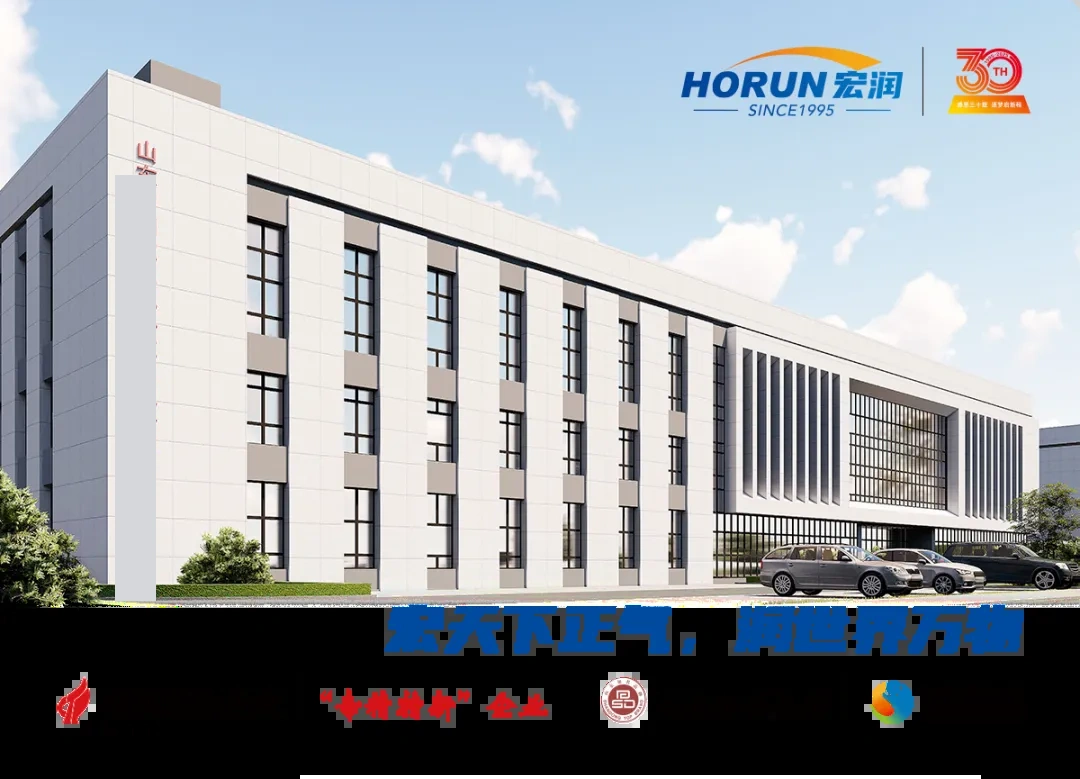
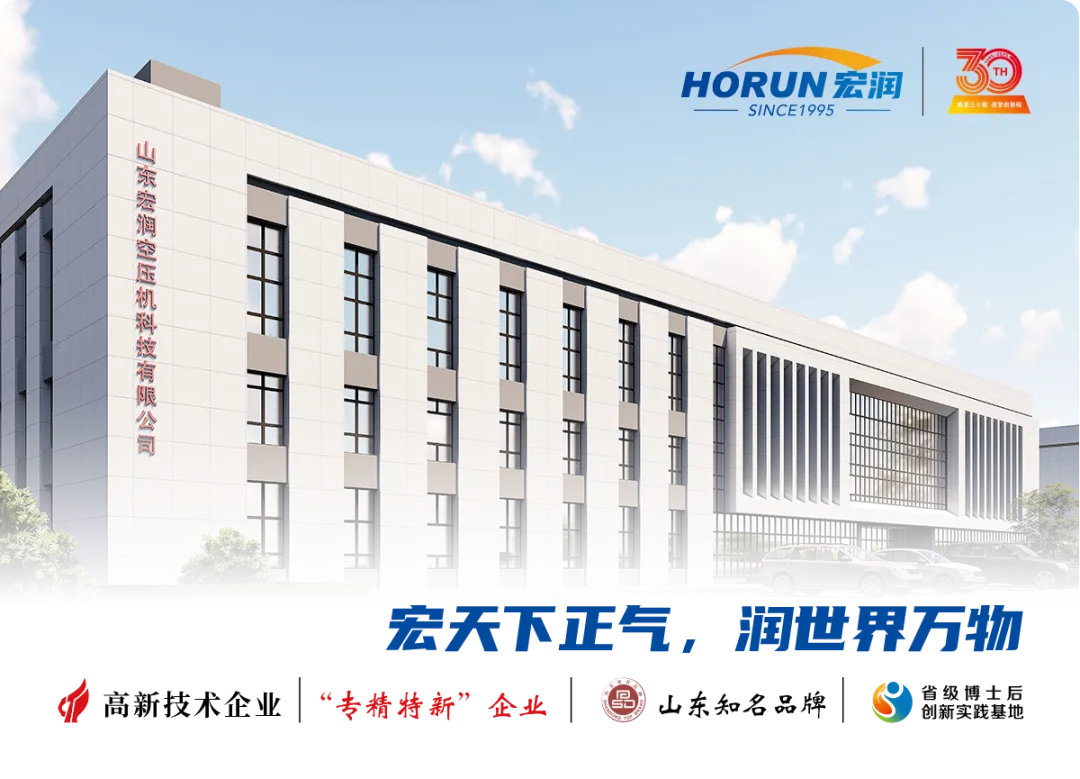
fix(media): replace edited factory milestone image with authentic Chinese original photo

diff --git a/articles/20261021-dentech-china-2026/index.html b/articles/20261021-dentech-china-2026/index.html
@@ -718,19 +718,14 @@
           <i class="fa-solid fa-industry text-brand-blue"></i>
           <span class="font-bold text-xs text-slate-800">Figure 4.0: Hongrun Technology Corporate Headquarters &amp; Advanced Manufacturing Facility</span>
         </div>
-        <!-- Toggle Switcher -->
-        <div class="inline-flex rounded-lg border border-slate-300 p-0.5 bg-slate-200 text-xs">
-          <button id="btn-hq-en" onclick="switchHqView('en')" class="img-toggle-btn active px-3 py-1 rounded-md text-xs font-semibold">
-            English Milestone View
-          </button>
-          <button id="btn-hq-zh" onclick="switchHqView('zh')" class="img-toggle-btn px-3 py-1 rounded-md text-xs text-slate-700 hover:text-slate-900">
-            中文原图
-          </button>
-        </div>
+        <!-- Authentic Milestone Photo Badge -->
+        <span class="inline-flex items-center gap-1.5 px-3 py-1 rounded-md text-xs font-semibold bg-brand-blue text-white shadow-sm">
+          <i class="fa-solid fa-building"></i> Headquarters &amp; Manufacturing Center
+        </span>
       </div>
       
       <div class="relative bg-slate-100 flex items-center justify-center p-2">
-        <img id="img-hq" src="factory_hq_en.webp" alt="Hongrun Technology Headquarters and 30-Year Medical Compressor Manufacturing Center" class="w-full h-auto object-cover rounded-xl max-h-[500px] transition-opacity duration-300"/>
+        <img id="img-hq" src="factory_hq_zh.webp" alt="Hongrun Technology Corporate Headquarters and 30-Year Medical Compressor Manufacturing Center" class="w-full h-auto object-cover rounded-xl max-h-[500px] transition-opacity duration-300"/>
       </div>
       
       <div class="p-4 bg-slate-50 text-xs text-slate-600 border-t border-slate-200">
@@ -1154,17 +1149,7 @@
 
   function switchHqView(lang) {
     const img = document.getElementById('img-hq');
-    const btnEn = document.getElementById('btn-hq-en');
-    const btnZh = document.getElementById('btn-hq-zh');
-    if (lang === 'zh') {
-      img.src = 'factory_hq_zh.webp';
-      btnZh.classList.add('active');
-      btnEn.classList.remove('active');
-    } else {
-      img.src = 'factory_hq_en.webp';
-      btnEn.classList.add('active');
-      btnZh.classList.remove('active');
-    }
+    if (img) img.src = 'factory_hq_zh.webp';
   }
 </script>
 
